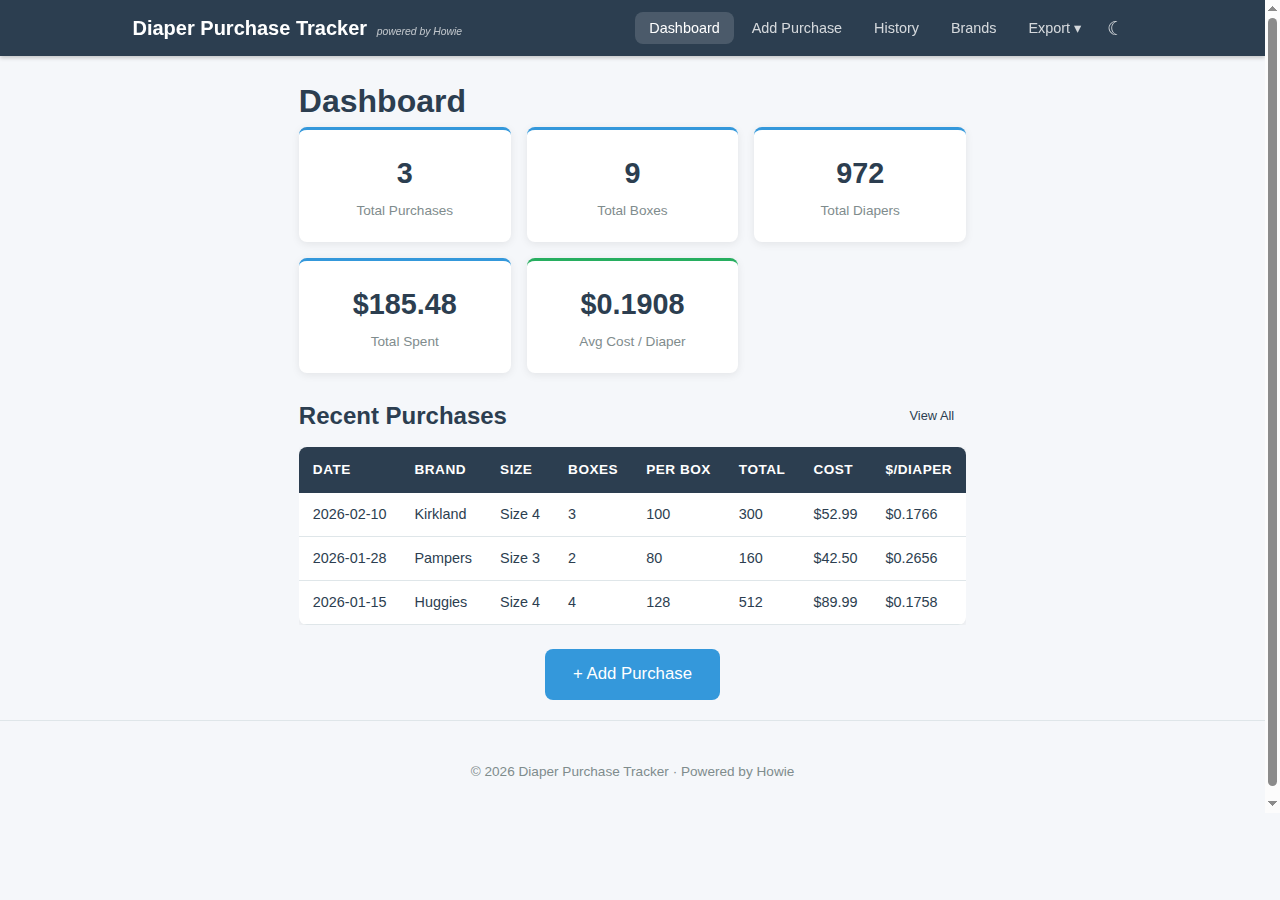
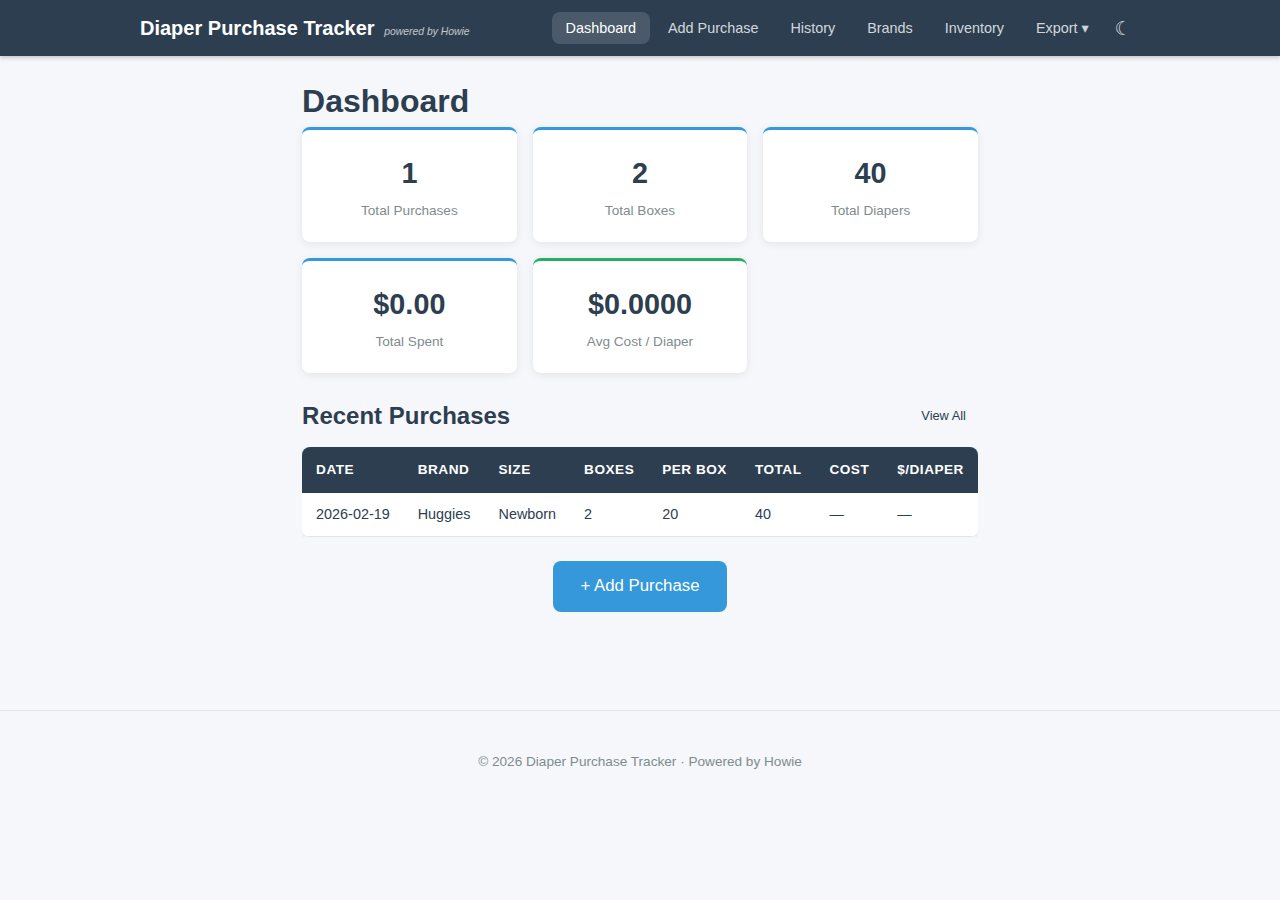
Update screenshots and README for Inventory tab

diff --git a/README.md b/README.md
@@ -8,6 +8,8 @@ A web app for tracking diaper purchases, costs, and box opening dates. Built wit
 
 ![Purchase History](static/images/screenshot-history.png)
 
+![Inventory](static/images/screenshot-inventory.png)
+
 ## Features
 
 - **Purchase tracking** — Record date, brand, number of boxes, diapers per box, and optional cost
@@ -15,6 +17,7 @@ A web app for tracking diaper purchases, costs, and box opening dates. Built wit
 - **Dashboard** — Summary stats: total purchases, boxes, diapers, spending, and average cost per diaper
 - **History** — Full purchase history with inline box opening management and delete
 - **Brand management** — Save frequently used brands for quick selection
+- **Inventory** — Per-size quick-glance view of boxes unopened vs. used, auto-refreshes every 60 seconds
 - **Exports** — PDF and Excel reports with all purchase and opening data
 - **Dark mode** — Toggle between light and dark themes
 - **Mobile responsive** — Works on desktop and mobile browsers
@@ -71,6 +74,7 @@ sudo nginx -t && sudo systemctl reload nginx
 │   ├── index.html         # Dashboard
 │   ├── add_purchase.html  # Add purchase form
 │   ├── history.html       # Purchase history with box opening UI
+│   ├── inventory.html     # Per-size inventory summary
 │   └── manage_brands.html # Brand management
 ├── static/
 │   ├── css/style.css      # All styles including dark mode
